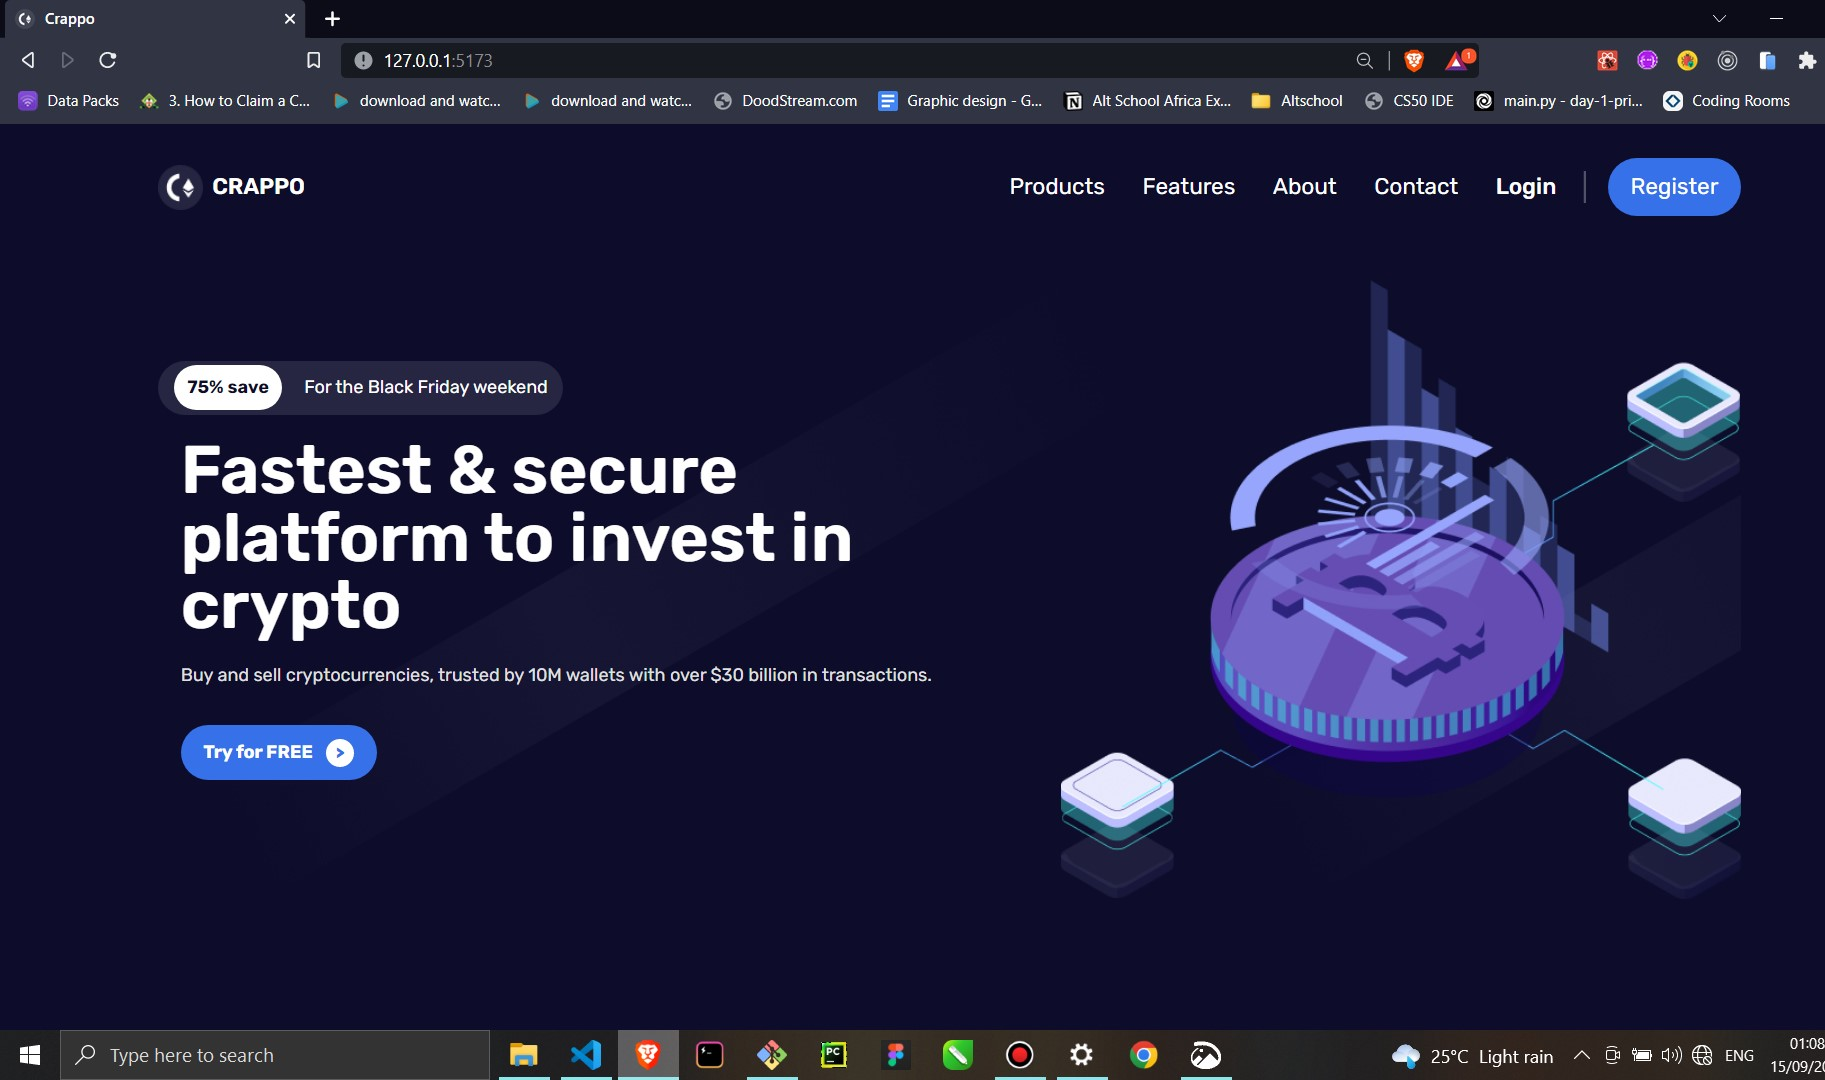
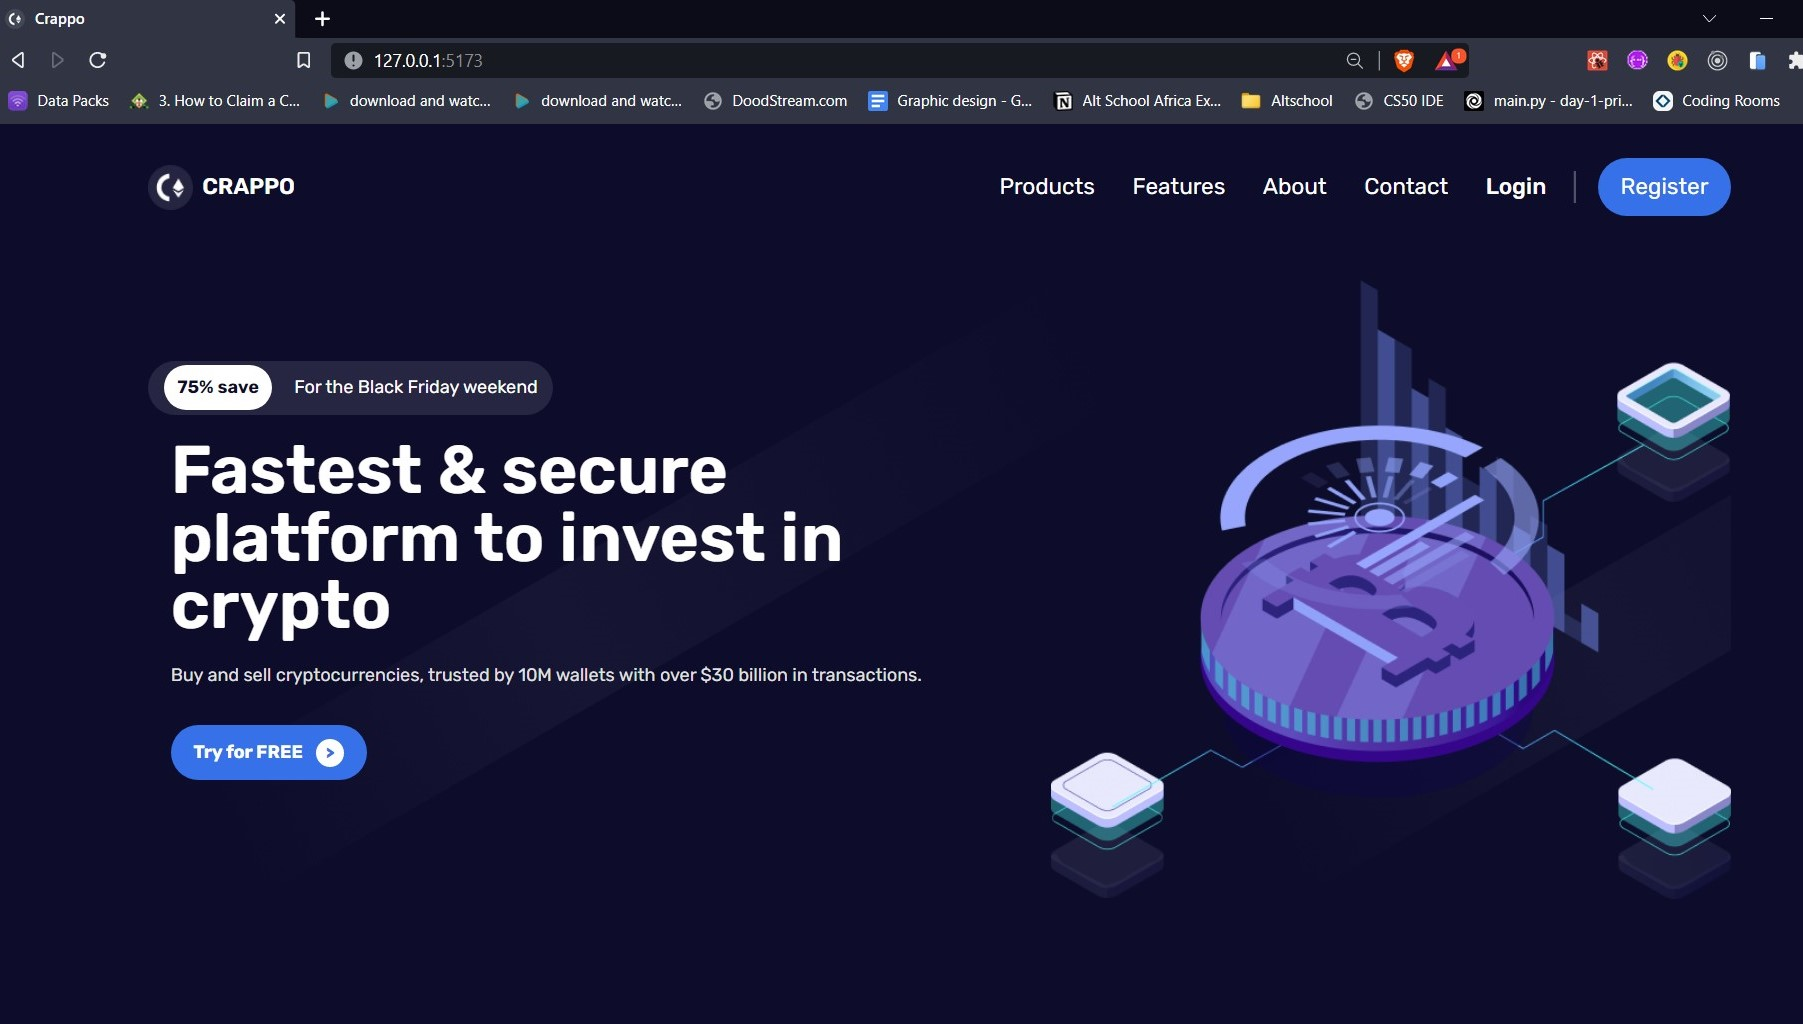
updating portolio

diff --git a/index.html b/index.html
@@ -96,6 +96,27 @@
     <section class="portfolio" id="portfolio">
       <h1>💼 MY PORTFOLIO:</h1>
       <div class="port-container">
+        <!-- musica -->
+                <div class="port-box">
+          <div class="port-img">
+            <img src="portfolio-img/musica.png" alt="musica" />
+          </div>
+
+          <div class="port-text">
+            <div class="port-title">Musica webapp</div>
+            <p>NextJS + Tailwind CSS + Music API</p>
+          </div>
+          <div class="port-div">
+            <a
+              href="https://musica-webapp.vercel.app/"
+              target="_blank"
+              class="port-link"
+              >View</a
+            >
+          </div>
+        </div>
+
+        <!-- crappo -->
         <div class="port-box">
           <div class="port-img">
             <img src="portfolio-img/crappo.jpg" alt="crappo" />
